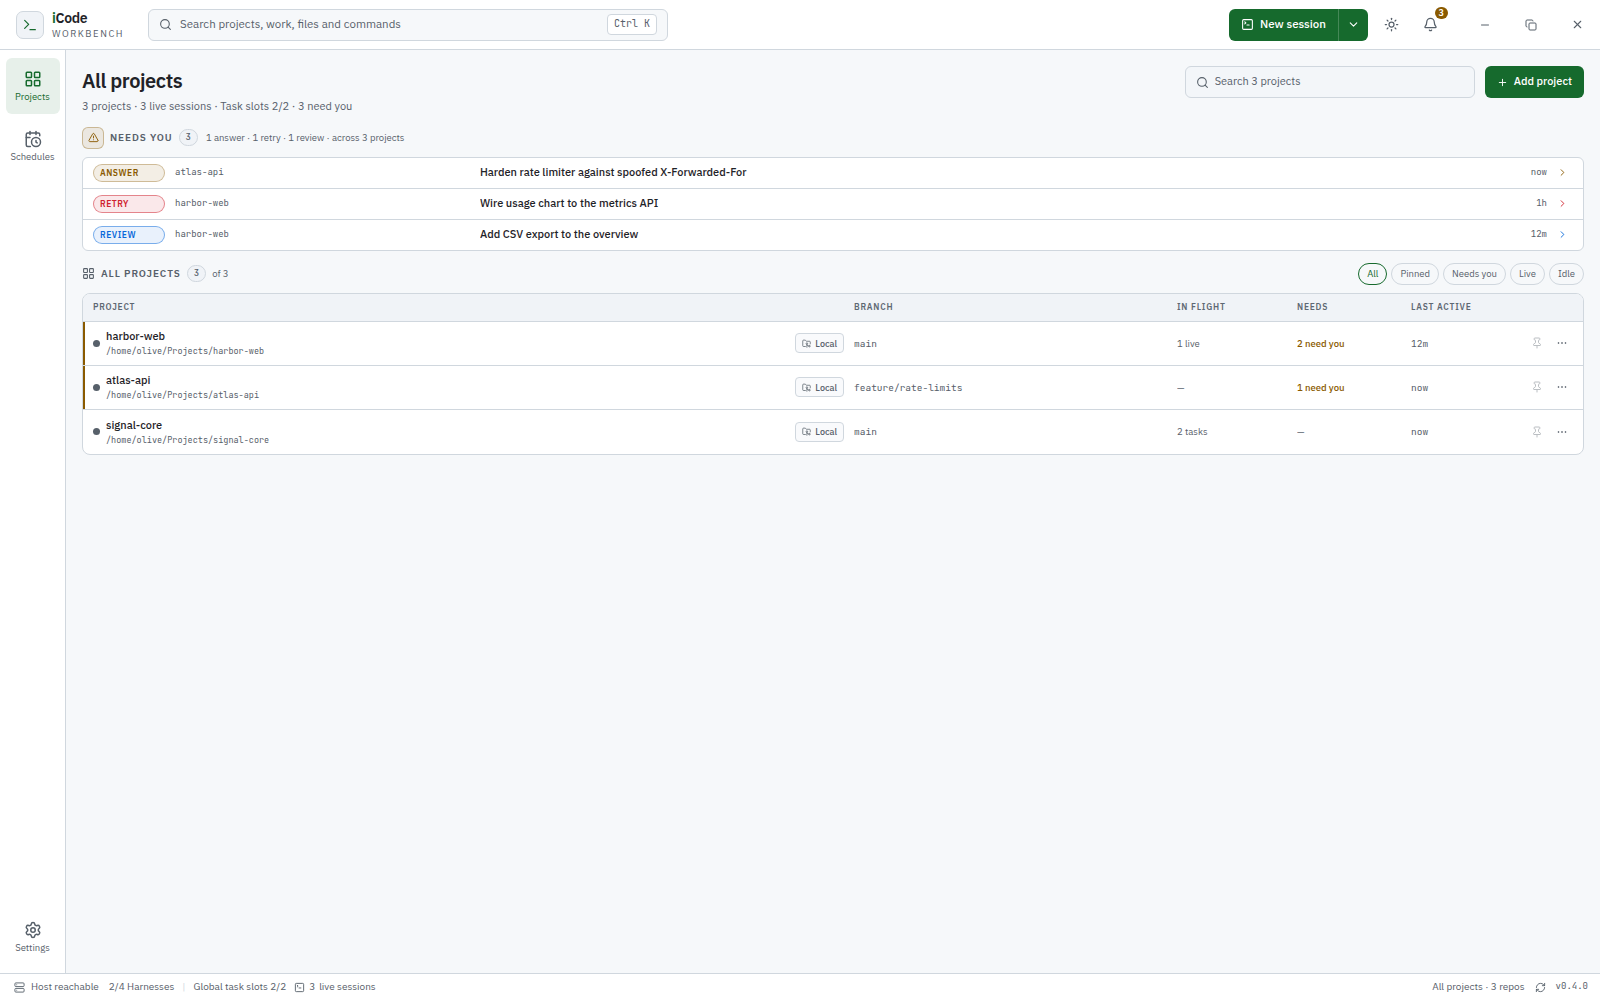
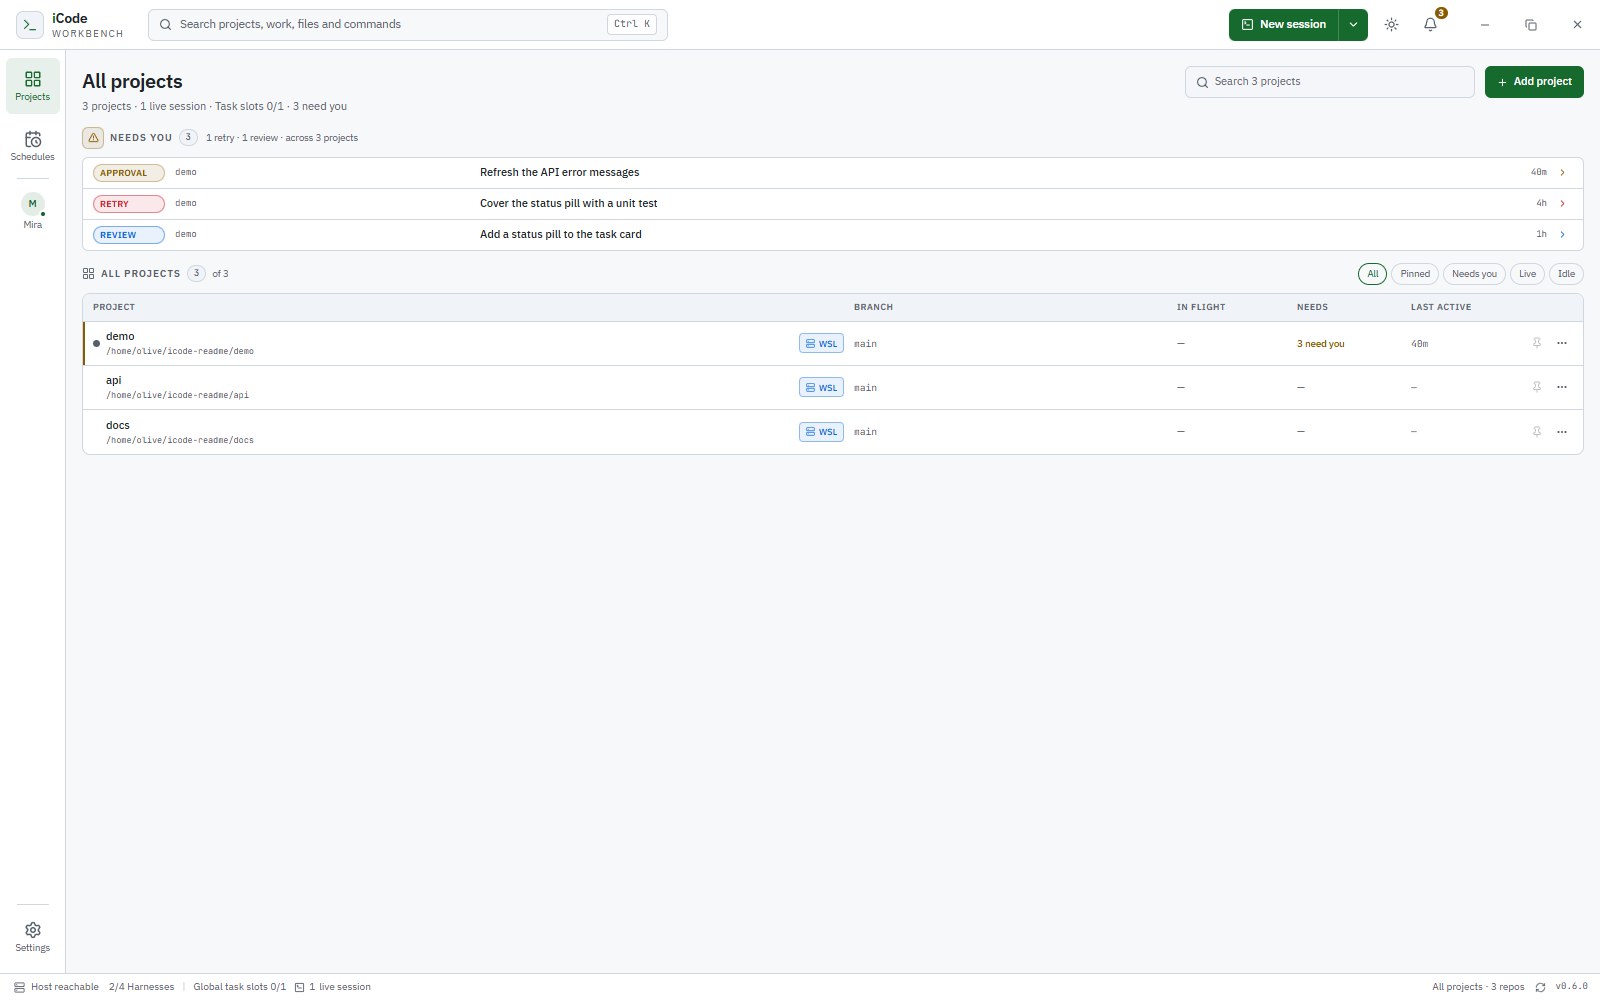
docs: refresh README screenshots
Replace every README screenshot with a capture of the current UI: the projects wall, a live WSL shell, Source Control changes and history, Files/Monaco, tasks with review, and schedules. Drop the unused old settings image.

diff --git a/README.md b/README.md
@@ -13,7 +13,7 @@
 <h3 align="center"><a href="#install"><ins>Get started</ins></a></h3>
 
 <p align="center">
-  <img src=".github/assets/projects-wall.png" alt="The iCode All projects wall showing in-flight work, needs, and last activity across three repositories" width="960" />
+  <img src=".github/assets/projects-wall.png" alt="The iCode All projects wall showing three WSL projects, three items that need attention, and last activity" width="960" />
 </p>
 
 <p align="center">
@@ -129,7 +129,7 @@ Schedules create ordinary queued tasks on a cadence — once, daily, weekdays,
 weekly, or every few hours — with queue-or-skip overlap handling and run-now.
 
 <p align="center">
-  <a href=".github/assets/tasks.png"><img src=".github/assets/tasks.png" alt="The task workbench showing a running task, its instruction, live session, changes, and review decision" width="100%" /></a>
+  <a href=".github/assets/tasks.png"><img src=".github/assets/tasks.png" alt="The task workbench showing a review-pending task with a live session, changes against its baseline, and a review recommendation" width="100%" /></a>
 </p>
 
 *Task workbench: the instruction, the live session, changes against the task
